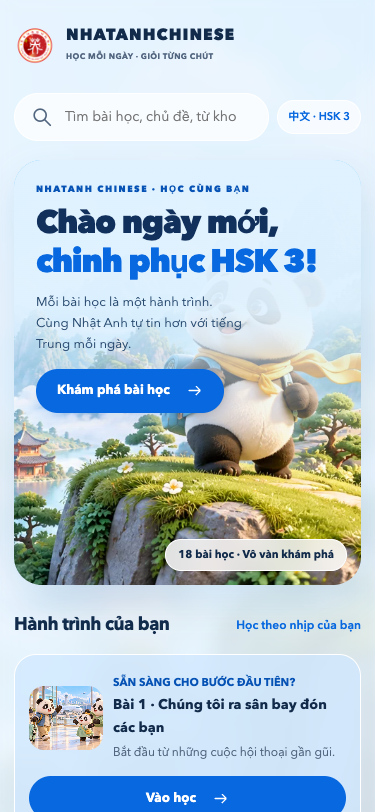
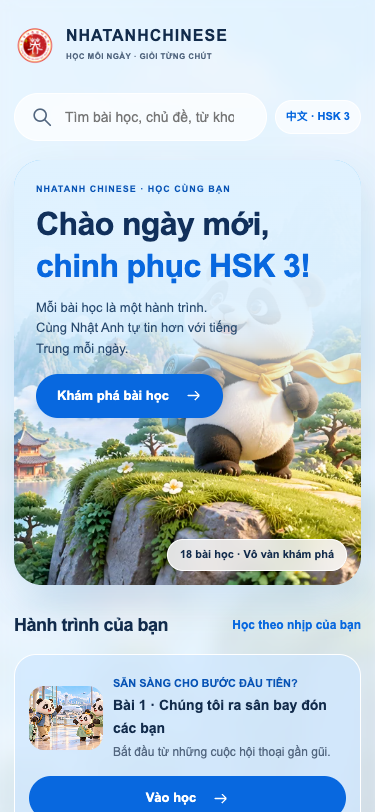
Add files via upload

diff --git a/assets/theme.css b/assets/theme.css
@@ -1,6 +1,6 @@
 
-:root{--primary:#0868df;--primary-dark:#0753b5;--ink:#122b4b;--muted:#52667f;--line:rgba(127,169,212,.25);--glass:rgba(255,255,255,.74);--shadow:0 12px 36px rgba(53,105,159,.08);--radius:24px;--lat:"Avenir Next","Segoe UI",Arial,sans-serif}
-*{box-sizing:border-box}html{scroll-behavior:smooth;scroll-padding-top:110px}body{margin:0;color:var(--ink);font-family:var(--lat);font-size:16px;line-height:1.6;background:#eaf4ff}body:before{content:"";position:fixed;inset:0;background:linear-gradient(115deg,rgba(237,247,255,.95),rgba(232,245,255,.87)),url('home.webp') center/cover;z-index:-1;pointer-events:none}a{color:inherit;text-decoration:none}button,input,select{font:inherit}button,a,input,select{touch-action:manipulation}button,a{ -webkit-tap-highlight-color:transparent}button{cursor:pointer}svg{width:22px;height:22px;flex:none}button:active,.primary:active{transform:scale(.98)}:focus-visible{outline:3px solid #0753b5;outline-offset:4px}button,a{transition:background .2s,box-shadow .2s,transform .2s}.skip{position:fixed;top:-100px;left:16px;z-index:100;background:white;padding:12px;border-radius:12px}.skip:focus{top:10px}.na-brand{display:flex;align-items:center;gap:10px;min-height:62px}.na-brand img{object-fit:contain;border-radius:50%;flex:none}.na-brand b{display:block;font-size:14px;font-weight:800;line-height:1.2;letter-spacing:1px}.na-brand small{font-size:7px;letter-spacing:.4px;display:block;margin-top:6px;color:var(--muted);font-weight:700}.glass{background:var(--glass);border:1px solid rgba(255,255,255,.9);box-shadow:var(--shadow);backdrop-filter:blur(22px);-webkit-backdrop-filter:blur(22px);border-radius:var(--radius)}.shell{display:grid;grid-template-columns:224px minmax(0,1fr);max-width:1680px;margin:auto;min-height:100dvh}.sidebar{position:sticky;top:0;height:100dvh;padding:26px 18px;display:flex;flex-direction:column;gap:30px;background:rgba(255,255,255,.58);backdrop-filter:blur(24px);border-right:1px solid white}.sidebar nav{display:grid;gap:8px}.nav-link{display:flex;align-items:center;gap:12px;padding:12px 14px;border-radius:14px;font-size:14px;font-weight:600;min-height:48px;color:var(--muted)}.nav-link:hover{background:#e5f0ff}.nav-link.active{color:var(--primary);background:#dcebff}.sidebar-bottom{margin-top:auto;padding:18px;background:linear-gradient(150deg,#d9edff,#f6fbff);border:1px solid white;border-radius:22px}.sidebar-bottom .mini-icon{background:white;color:var(--primary);width:42px;height:42px;display:grid;place-items:center;border-radius:14px}.sidebar-bottom b{display:block;margin-top:10px}.sidebar-bottom p{font-size:12px;color:var(--muted);margin:5px 0 12px}.sidebar-footer{font-size:11px;color:var(--muted);text-align:center}.workspace{padding:24px 30px 40px;min-width:0}.topbar{display:flex;align-items:center;gap:20px;margin-bottom:24px;min-height:50px}.searchbox{display:flex;align-items:center;gap:10px;max-width:440px;flex:1;padding:0 16px;background:rgba(255,255,255,.72);border:1px solid white;border-radius:50px;color:var(--muted)}.searchbox input{width:100%;min-width:0;border:0;background:none;outline:none;min-height:46px;color:var(--ink);font-size:14px}.searchbox:focus-within{box-shadow:0 0 0 3px #abcfff}.top-meta{margin-left:auto;display:flex;align-items:center;gap:14px;font-size:13px;font-weight:600;white-space:nowrap}.level-pill{padding:8px 14px;background:rgba(255,255,255,.65);border:1px solid white;border-radius:40px;color:var(--primary)}.avatar{width:42px;height:42px;background:#d2e8ff;color:var(--primary-dark);display:grid;place-items:center;border-radius:50%;border:3px solid white;font-weight:800}.dashboard{display:grid;grid-template-columns:minmax(0,1fr) 258px;gap:24px;align-items:start}.content{min-width:0}.home-hero{position:relative;border-radius:28px;overflow:hidden;min-height:340px;background:#cceaff;box-shadow:0 16px 35px rgba(30,105,180,.13);isolation:isolate}.home-hero>img{position:absolute;inset:0;width:100%;height:100%;object-fit:cover;z-index:-2}.home-hero:after{content:"";position:absolute;inset:0;background:linear-gradient(90deg,rgba(218,240,255,.97),rgba(222,242,255,.7) 38%,transparent 72%);z-index:-1}.hero-copy{padding:30px 32px;max-width:66%}.eyebrow{font-size:11px;font-weight:800;letter-spacing:1.5px;text-transform:uppercase;color:var(--primary-dark)}.hero-copy h1{font-size:36px;line-height:1.22;letter-spacing:-1.2px;margin:12px 0;color:#11305b;font-weight:800}.hero-copy h1 span{color:var(--primary)}.hero-copy p{max-width:260px;font-size:14px;color:#294b70;margin:14px 0 22px}.primary{display:inline-flex;align-items:center;justify-content:center;gap:16px;background:var(--primary);color:white;border:0;border-radius:40px;min-height:46px;padding:10px 21px;font-size:13px;font-weight:700;box-shadow:0 7px 16px #1870df30}.primary:hover{background:var(--primary-dark);box-shadow:0 10px 22px #1870df40}.primary svg{width:17px;height:17px}.hero-badge{position:absolute;right:18px;top:18px;background:rgba(255,255,255,.82);backdrop-filter:blur(12px);border:1px solid white;border-radius:40px;padding:6px 12px;font-size:11px;font-weight:700}.section-heading{display:flex;justify-content:space-between;align-items:center;gap:10px;margin:26px 0 14px}.section-heading h2{margin:0;font-size:19px;letter-spacing:-.5px}.section-heading a,.section-heading>span{font-size:12px;font-weight:600;color:var(--primary)}.continue{padding:14px;display:flex;align-items:center;gap:16px;background:rgba(206,231,255,.7);border:1px solid white;border-radius:22px}.continue img{width:94px;height:74px;border-radius:15px;object-fit:cover}.continue-info{flex:1;min-width:0}.continue-info small{font-size:11px;color:var(--primary-dark);font-weight:700}.continue-info b{display:block;font-size:14px}.continue-info p{font-size:12px;color:var(--muted);margin:4px 0}.continue .primary{box-shadow:none;min-width:105px}.skills-home{display:grid;grid-template-columns:repeat(4,1fr);gap:10px}.skill-tile{padding:14px 10px;display:flex;align-items:center;gap:9px;border:1px solid white;border-radius:18px;background:var(--tile);min-width:0}.skill-tile .tile-icon{width:36px;height:36px;display:grid;place-items:center;border-radius:12px;background:var(--tile-ink);color:#fff;flex:none;box-shadow:inset 0 -3px 0 #0000000b}.skill-tile svg{width:20px}.skill-tile b{font-size:12px;display:block}.skill-tile small{font-size:10px;color:#526078}.skill-tile:hover{transform:translateY(-3px);box-shadow:var(--shadow)}.filterbar{display:flex;gap:8px;margin:0 0 18px;flex-wrap:wrap}.filter{border:1px solid #d7e6f7;background:rgba(255,255,255,.7);color:var(--muted);border-radius:30px;padding:8px 15px;min-height:44px;font-size:12px;font-weight:700}.filter[aria-pressed=true]{background:var(--primary);border-color:var(--primary);color:white}.lesson-grid{display:grid;grid-template-columns:repeat(2,minmax(0,1fr));gap:18px}.lesson-card{display:block;overflow:hidden;position:relative;border-radius:24px;background:rgba(255,255,255,.82);border:1px solid white;box-shadow:0 5px 18px #24598508;transition:transform .25s,box-shadow .25s}.lesson-card:hover{transform:translateY(-5px);box-shadow:0 16px 32px #24598520}.lesson-cover{position:relative;height:174px;overflow:hidden;background:#d8edfc}.lesson-cover>img{width:100%;height:100%;object-fit:cover;transition:transform .3s}.lesson-card:hover .lesson-cover>img{transform:scale(1.035)}.lesson-number{position:absolute;top:12px;left:12px;border:1px solid white;background:rgba(255,255,255,.88);backdrop-filter:blur(12px);border-radius:30px;padding:3px 12px;font-size:11px;font-weight:800;color:var(--primary-dark)}.lesson-body{padding:18px}.lesson-body h3{font-family:"PingFang SC","Microsoft YaHei",sans-serif;font-size:18px;line-height:1.5;margin:0 0 5px;font-weight:600}.lesson-body p{font-size:12px;color:var(--muted);margin:0 0 14px;min-height:38px}.lesson-bottom{border-top:1px solid #e4edf7;padding-top:12px;display:flex;align-items:center;justify-content:space-between;font-size:11px;color:var(--muted)}.lesson-bottom strong{font-size:12px;color:var(--primary);display:flex;align-items:center;gap:6px}.lesson-bottom svg{width:16px}.right-rail{display:grid;gap:18px}.rail-card{padding:22px}.rail-card h2{font-size:14px;margin:0 0 18px}.progress-ring{--pct:0%;width:138px;height:138px;border-radius:50%;background:conic-gradient(var(--primary) var(--pct),#e2ecf9 0);margin:5px auto 16px;padding:10px}.progress-ring>div{height:100%;background:#f8fcff;border:4px solid white;border-radius:50%;display:flex;flex-direction:column;align-items:center;justify-content:center}.progress-ring b{font-size:28px;line-height:1.2;letter-spacing:-1px}.progress-ring small{font-size:11px;color:var(--muted)}.rail-card>p{color:var(--muted);font-size:12px;margin:0}.rail-note{text-align:center}.rail-stat{display:flex;align-items:center;gap:12px;padding:12px 0;border-top:1px solid #dfebf8;font-size:12px}.rail-stat span{display:grid;place-items:center;border-radius:12px;width:36px;height:36px;background:#e5efff;color:var(--primary)}.rail-stat b{margin-left:auto;font-size:17px}.study-tip{background:linear-gradient(145deg,#d3eaffbb,#e7f4ffbb)}.study-tip .tip-illustration{width:70px;height:70px;border-radius:20px;object-fit:cover;float:right;margin-top:12px}.study-tip h2{margin:9px 0;font-size:17px}.study-tip p{font-size:12px;color:#375778}.tiny-label{color:var(--primary-dark);font-size:10px;font-weight:800;letter-spacing:1px}.empty{padding:40px;text-align:center;grid-column:1/-1}.home-footer{text-align:center;margin:32px 0 0;color:var(--muted);font-size:11px}.mobile-brand{display:none}.score-list{display:grid;gap:10px}.score-row{display:flex;align-items:center;justify-content:space-between;border-radius:12px;background:#edf5ff;padding:10px;font-size:12px}.score-list>p{font-size:12px;color:var(--muted);margin:0}
+:root{--primary:#0868df;--primary-dark:#0753b5;--ink:#122b4b;--muted:#52667f;--line:rgba(127,169,212,.25);--glass:rgba(255,255,255,.74);--shadow:0 12px 36px rgba(53,105,159,.08);--radius:24px;--lat:Arial,"Helvetica Neue","Segoe UI",sans-serif}
+*{box-sizing:border-box}html{scroll-behavior:smooth;scroll-padding-top:110px}body{margin:0;color:var(--ink);font-family:var(--lat);font-size:16px;line-height:1.6;background:#eaf4ff}body:before{content:"";position:fixed;inset:0;background:linear-gradient(115deg,rgba(237,247,255,.95),rgba(232,245,255,.87)),url('home.webp') center/cover;z-index:-1;pointer-events:none}a{color:inherit;text-decoration:none}button,input,select{font:inherit}button,a,input,select{touch-action:manipulation}button,a{ -webkit-tap-highlight-color:transparent}button{cursor:pointer}svg{width:22px;height:22px;flex:none}button:active,.primary:active{transform:scale(.98)}:focus-visible{outline:3px solid #0753b5;outline-offset:4px}button,a{transition:background .2s,box-shadow .2s,transform .2s}.skip{position:fixed;top:-100px;left:16px;z-index:100;background:white;padding:12px;border-radius:12px}.skip:focus{top:10px}.na-brand{display:flex;align-items:center;gap:10px;min-height:62px}.na-brand img{object-fit:contain;border-radius:50%;flex:none}.na-brand b{display:block;font-size:14px;font-weight:700;line-height:1.2;letter-spacing:1px}.na-brand small{font-size:7px;letter-spacing:.4px;display:block;margin-top:6px;color:var(--muted);font-weight:700}.glass{background:var(--glass);border:1px solid rgba(255,255,255,.9);box-shadow:var(--shadow);backdrop-filter:blur(22px);-webkit-backdrop-filter:blur(22px);border-radius:var(--radius)}.shell{display:grid;grid-template-columns:224px minmax(0,1fr);max-width:1680px;margin:auto;min-height:100dvh}.sidebar{position:sticky;top:0;height:100dvh;padding:26px 18px;display:flex;flex-direction:column;gap:30px;background:rgba(255,255,255,.58);backdrop-filter:blur(24px);border-right:1px solid white}.sidebar nav{display:grid;gap:8px}.nav-link{display:flex;align-items:center;gap:12px;padding:12px 14px;border-radius:14px;font-size:14px;font-weight:600;min-height:48px;color:var(--muted)}.nav-link:hover{background:#e5f0ff}.nav-link.active{color:var(--primary);background:#dcebff}.sidebar-bottom{margin-top:auto;padding:18px;background:linear-gradient(150deg,#d9edff,#f6fbff);border:1px solid white;border-radius:22px}.sidebar-bottom .mini-icon{background:white;color:var(--primary);width:42px;height:42px;display:grid;place-items:center;border-radius:14px}.sidebar-bottom b{display:block;margin-top:10px}.sidebar-bottom p{font-size:12px;color:var(--muted);margin:5px 0 12px}.sidebar-footer{font-size:11px;color:var(--muted);text-align:center}.workspace{padding:24px 30px 40px;min-width:0}.topbar{display:flex;align-items:center;gap:20px;margin-bottom:24px;min-height:50px}.searchbox{display:flex;align-items:center;gap:10px;max-width:440px;flex:1;padding:0 16px;background:rgba(255,255,255,.72);border:1px solid white;border-radius:50px;color:var(--muted)}.searchbox input{width:100%;min-width:0;border:0;background:none;outline:none;min-height:46px;color:var(--ink);font-size:14px}.searchbox:focus-within{box-shadow:0 0 0 3px #abcfff}.top-meta{margin-left:auto;display:flex;align-items:center;gap:14px;font-size:13px;font-weight:600;white-space:nowrap}.level-pill{padding:8px 14px;background:rgba(255,255,255,.65);border:1px solid white;border-radius:40px;color:var(--primary)}.avatar{width:42px;height:42px;background:#d2e8ff;color:var(--primary-dark);display:grid;place-items:center;border-radius:50%;border:3px solid white;font-weight:700}.dashboard{display:grid;grid-template-columns:minmax(0,1fr) 258px;gap:24px;align-items:start}.content{min-width:0}.home-hero{position:relative;border-radius:28px;overflow:hidden;min-height:340px;background:#cceaff;box-shadow:0 16px 35px rgba(30,105,180,.13);isolation:isolate}.home-hero>img{position:absolute;inset:0;width:100%;height:100%;object-fit:cover;z-index:-2}.home-hero:after{content:"";position:absolute;inset:0;background:linear-gradient(90deg,rgba(218,240,255,.97),rgba(222,242,255,.7) 38%,transparent 72%);z-index:-1}.hero-copy{padding:30px 32px;max-width:66%}.eyebrow{font-size:11px;font-weight:600;letter-spacing:1px;text-transform:uppercase;color:var(--primary-dark)}.hero-copy h1{font-size:36px;line-height:1.3;letter-spacing:-.6px;margin:12px 0;color:#11305b;font-weight:700}.hero-copy h1 span{color:var(--primary)}.hero-copy p{max-width:260px;font-size:14px;color:#294b70;margin:14px 0 22px}.primary{display:inline-flex;align-items:center;justify-content:center;gap:16px;background:var(--primary);color:white;border:0;border-radius:40px;min-height:46px;padding:10px 21px;font-size:13px;font-weight:700;box-shadow:0 7px 16px #1870df30}.primary:hover{background:var(--primary-dark);box-shadow:0 10px 22px #1870df40}.primary svg{width:17px;height:17px}.hero-badge{position:absolute;right:18px;top:18px;background:rgba(255,255,255,.82);backdrop-filter:blur(12px);border:1px solid white;border-radius:40px;padding:6px 12px;font-size:11px;font-weight:700}.section-heading{display:flex;justify-content:space-between;align-items:center;gap:10px;margin:26px 0 14px}.section-heading h2{margin:0;font-size:19px;letter-spacing:-.5px}.section-heading a,.section-heading>span{font-size:12px;font-weight:600;color:var(--primary)}.continue{padding:14px;display:flex;align-items:center;gap:16px;background:rgba(206,231,255,.7);border:1px solid white;border-radius:22px}.continue img{width:94px;height:74px;border-radius:15px;object-fit:cover}.continue-info{flex:1;min-width:0}.continue-info small{font-size:11px;color:var(--primary-dark);font-weight:700}.continue-info b{display:block;font-size:14px}.continue-info p{font-size:12px;color:var(--muted);margin:4px 0}.continue .primary{box-shadow:none;min-width:105px}.skills-home{display:grid;grid-template-columns:repeat(4,1fr);gap:10px}.skill-tile{padding:14px 10px;display:flex;align-items:center;gap:9px;border:1px solid white;border-radius:18px;background:var(--tile);min-width:0}.skill-tile .tile-icon{width:36px;height:36px;display:grid;place-items:center;border-radius:12px;background:var(--tile-ink);color:#fff;flex:none;box-shadow:inset 0 -3px 0 #0000000b}.skill-tile svg{width:20px}.skill-tile b{font-size:12px;display:block}.skill-tile small{font-size:10px;color:#526078}.skill-tile:hover{transform:translateY(-3px);box-shadow:var(--shadow)}.filterbar{display:flex;gap:8px;margin:0 0 18px;flex-wrap:wrap}.filter{border:1px solid #d7e6f7;background:rgba(255,255,255,.7);color:var(--muted);border-radius:30px;padding:8px 15px;min-height:44px;font-size:12px;font-weight:700}.filter[aria-pressed=true]{background:var(--primary);border-color:var(--primary);color:white}.lesson-grid{display:grid;grid-template-columns:repeat(2,minmax(0,1fr));gap:18px}.lesson-card{display:block;overflow:hidden;position:relative;border-radius:24px;background:rgba(255,255,255,.82);border:1px solid white;box-shadow:0 5px 18px #24598508;transition:transform .25s,box-shadow .25s}.lesson-card:hover{transform:translateY(-5px);box-shadow:0 16px 32px #24598520}.lesson-cover{position:relative;height:174px;overflow:hidden;background:#d8edfc}.lesson-cover>img{width:100%;height:100%;object-fit:cover;transition:transform .3s}.lesson-card:hover .lesson-cover>img{transform:scale(1.035)}.lesson-number{position:absolute;top:12px;left:12px;border:1px solid white;background:rgba(255,255,255,.88);backdrop-filter:blur(12px);border-radius:30px;padding:3px 12px;font-size:11px;font-weight:700;color:var(--primary-dark)}.lesson-body{padding:18px}.lesson-body h3{font-family:"PingFang SC","Microsoft YaHei",sans-serif;font-size:18px;line-height:1.5;margin:0 0 5px;font-weight:600}.lesson-body p{font-size:12px;color:var(--muted);margin:0 0 14px;min-height:38px}.lesson-bottom{border-top:1px solid #e4edf7;padding-top:12px;display:flex;align-items:center;justify-content:space-between;font-size:11px;color:var(--muted)}.lesson-bottom strong{font-size:12px;color:var(--primary);display:flex;align-items:center;gap:6px}.lesson-bottom svg{width:16px}.right-rail{display:grid;gap:18px}.rail-card{padding:22px}.rail-card h2{font-size:14px;margin:0 0 18px}.progress-ring{--pct:0%;width:138px;height:138px;border-radius:50%;background:conic-gradient(var(--primary) var(--pct),#e2ecf9 0);margin:5px auto 16px;padding:10px}.progress-ring>div{height:100%;background:#f8fcff;border:4px solid white;border-radius:50%;display:flex;flex-direction:column;align-items:center;justify-content:center}.progress-ring b{font-size:28px;line-height:1.2;letter-spacing:-1px}.progress-ring small{font-size:11px;color:var(--muted)}.rail-card>p{color:var(--muted);font-size:12px;margin:0}.rail-note{text-align:center}.rail-stat{display:flex;align-items:center;gap:12px;padding:12px 0;border-top:1px solid #dfebf8;font-size:12px}.rail-stat span{display:grid;place-items:center;border-radius:12px;width:36px;height:36px;background:#e5efff;color:var(--primary)}.rail-stat b{margin-left:auto;font-size:17px}.study-tip{background:linear-gradient(145deg,#d3eaffbb,#e7f4ffbb)}.study-tip .tip-illustration{width:70px;height:70px;border-radius:20px;object-fit:cover;float:right;margin-top:12px}.study-tip h2{margin:9px 0;font-size:17px}.study-tip p{font-size:12px;color:#375778}.tiny-label{color:var(--primary-dark);font-size:10px;font-weight:700;letter-spacing:1px}.empty{padding:40px;text-align:center;grid-column:1/-1}.home-footer{text-align:center;margin:32px 0 0;color:var(--muted);font-size:11px}.mobile-brand{display:none}.score-list{display:grid;gap:10px}.score-row{display:flex;align-items:center;justify-content:space-between;border-radius:12px;background:#edf5ff;padding:10px;font-size:12px}.score-list>p{font-size:12px;color:var(--muted);margin:0}
 @media(min-width:1550px){.lesson-grid{grid-template-columns:repeat(3,minmax(0,1fr))}.home-hero{min-height:380px}.hero-copy h1{font-size:43px}}
 @media(max-width:1250px){.shell{grid-template-columns:195px minmax(0,1fr)}.workspace{padding:22px}.dashboard{grid-template-columns:minmax(0,1fr)}.right-rail{grid-template-columns:repeat(3,minmax(0,1fr))}.hero-copy{max-width:58%}.rail-card{padding:18px}.progress-ring{width:110px;height:110px}.skills-home{gap:12px}.na-brand b{font-size:12px}.na-brand img{width:42px;height:42px}.na-brand small{font-size:6px}}
 @media(max-width:800px){.shell{display:block}.sidebar{display:none}.workspace{padding:16px}.mobile-brand{display:block;margin-bottom:16px}.mobile-brand .na-brand b br{display:none}.mobile-brand .na-brand b{font-size:16px}.mobile-brand .na-brand small{font-size:8px}.topbar{gap:8px;margin-bottom:18px}.top-meta .welcome{display:none}.hero-copy h1{font-size:33px}.hero-copy{max-width:70%;padding:26px}.right-rail{grid-template-columns:repeat(2,minmax(0,1fr))}.study-tip{display:none}.home-hero{min-height:320px}.lesson-cover{height:190px}}

diff --git a/assets/lesson.css b/assets/lesson.css
@@ -1,5 +1,5 @@
 
-:root{--vermilion:#0868df;--vermilion-d:#0753b5;--lat:"Avenir Next","Segoe UI",Arial,sans-serif;--ink:#122b4b;--ink-2:#52667f;--line:#d5e5f5}.app3{max-width:1720px;grid-template-columns:236px minmax(0,1fr)}.sb{background:rgba(255,255,255,.64);border-right:1px solid white;backdrop-filter:blur(24px);padding:22px 16px;gap:20px}.sb .na-brand{margin-bottom:6px}.na-home{display:flex;align-items:center;gap:10px;padding:10px 14px;border-radius:14px;color:#0753b5;background:#e1efff;font-size:14px;font-weight:700;min-height:44px}.mn{padding:24px 28px 70px}.tb{border:1px solid #fff;background:rgba(255,255,255,.75);backdrop-filter:blur(22px);box-shadow:0 10px 30px #285d9610;padding:8px 12px}.cols{gap:22px;margin-top:22px;grid-template-columns:minmax(0,1fr) 260px}.nv{font-size:14px;font-weight:600;padding:7px 9px;min-height:46px}.nv .ic{font-size:20px}.plus,.rc,.guide,.user{border:1px solid white;box-shadow:0 8px 30px #285d9610;background:rgba(255,255,255,.78);backdrop-filter:blur(16px)}.plus{padding:18px;border-radius:22px}.rc{padding:20px;border-radius:24px}.tip{background:linear-gradient(150deg,#d7eaffc9,#edf8ffc9)}.sb .user{border-radius:18px}.bn{min-height:310px;background:#d9efff;box-shadow:0 12px 30px #285d9618;border:1px solid white;border-radius:28px}.bn .bn-art{display:none}.bn:before{content:"";position:absolute;inset:0;background-image:var(--lesson-image);background-size:cover;background-position:center;z-index:-2}.bn:after{content:"";position:absolute;inset:0;background:linear-gradient(90deg,rgba(228,244,255,.98),rgba(228,244,255,.94) 35%,rgba(228,244,255,0) 80%);z-index:-1}.bn-tx{max-width:70%;padding:26px}.bn h1{font-size:1.9rem;line-height:2.1;overflow-wrap:anywhere}.bn p{font-size:1rem;max-width:90%;line-height:1.5}.bn .tag{font-size:.68rem;letter-spacing:.5px;padding:4px 12px}.bn .go,.sbtn,.cont .st{font-size:14px;box-shadow:0 6px 15px #0868df24}.cont{background:rgba(211,232,255,.78);border:1px solid white}.cont .th{background-image:var(--lesson-image);background-size:cover;background-position:center;font-size:0}.h3 h3{font-size:1.1rem}.sk{border:1px solid white;min-height:84px;border-radius:20px;gap:8px}.sk b{font-size:.84rem;line-height:1.4}.sk small{font-size:.68rem}.sk .ic{width:36px;height:36px;font-size:1.2rem}.sk:hover{transform:translateY(-3px);box-shadow:0 8px 20px #285d9618}.skills{gap:10px}.card,.qcard{box-shadow:0 4px 18px #285d960a}.sec{scroll-margin-top:105px}.srch select{font-size:14px;min-height:44px}.seg button{min-height:44px;font-size:13px}.tb .mk{background:none;box-shadow:none}.tb .mk img{width:40px;height:40px;object-fit:contain;border-radius:50%}.mobile-home{font-size:12px;color:#0753b5;min-height:44px;display:flex;align-items:center;white-space:nowrap;font-weight:700}.guide{font-size:14px;line-height:1.7}.rt h4{font-size:14px}.rg p{font-size:13px}.rg small{font-size:11px}.ring{width:90px;height:90px}.ring svg{width:90px;height:90px}.ringw{gap:10px}.ring .mid b{font-size:1.1rem}.rr{font-size:13px}.ring .mid small{font-size:10px}.brand{display:none}.h3{margin-top:24px}.sec-h{padding-bottom:12px;border-bottom:1px solid #c5dcf5}.sec-h .seal{border-radius:16px;box-shadow:0 5px 14px #0868df20;background:#0868df}.sec-h h2{font-size:1.45rem}.sec-h h2 small{font-size:.8rem}.cont .ci b{font-size:14px}.cont .ci small{font-size:12px}.submit .btn{min-height:48px}button:hover{filter:brightness(.98)}.sk,.opt,.card{transition:background .2s,box-shadow .2s,transform .2s}
+:root{--vermilion:#0868df;--vermilion-d:#0753b5;--lat:Arial,"Helvetica Neue","Segoe UI",sans-serif;--ink:#122b4b;--ink-2:#52667f;--line:#d5e5f5}.app3{max-width:1720px;grid-template-columns:236px minmax(0,1fr)}.sb{background:rgba(255,255,255,.64);border-right:1px solid white;backdrop-filter:blur(24px);padding:22px 16px;gap:20px}.sb .na-brand{margin-bottom:6px}.na-home{display:flex;align-items:center;gap:10px;padding:10px 14px;border-radius:14px;color:#0753b5;background:#e1efff;font-size:14px;font-weight:700;min-height:44px}.mn{padding:24px 28px 70px}.tb{border:1px solid #fff;background:rgba(255,255,255,.75);backdrop-filter:blur(22px);box-shadow:0 10px 30px #285d9610;padding:8px 12px}.cols{gap:22px;margin-top:22px;grid-template-columns:minmax(0,1fr) 260px}.nv{font-size:14px;font-weight:600;padding:7px 9px;min-height:46px}.nv .ic{font-size:20px}.plus,.rc,.guide,.user{border:1px solid white;box-shadow:0 8px 30px #285d9610;background:rgba(255,255,255,.78);backdrop-filter:blur(16px)}.plus{padding:18px;border-radius:22px}.rc{padding:20px;border-radius:24px}.tip{background:linear-gradient(150deg,#d7eaffc9,#edf8ffc9)}.sb .user{border-radius:18px}.bn{min-height:310px;background:#d9efff;box-shadow:0 12px 30px #285d9618;border:1px solid white;border-radius:28px}.bn .bn-art{display:none}.bn:before{content:"";position:absolute;inset:0;background-image:var(--lesson-image);background-size:cover;background-position:center;z-index:-2}.bn:after{content:"";position:absolute;inset:0;background:linear-gradient(90deg,rgba(228,244,255,.98),rgba(228,244,255,.94) 35%,rgba(228,244,255,0) 80%);z-index:-1}.bn-tx{max-width:70%;padding:26px}.bn h1{font-size:1.9rem;line-height:2.1;overflow-wrap:anywhere}.bn p{font-size:1rem;max-width:90%;line-height:1.5}.bn .tag{font-size:.68rem;letter-spacing:.5px;padding:4px 12px}.bn .go,.sbtn,.cont .st{font-size:14px;box-shadow:0 6px 15px #0868df24}.cont{background:rgba(211,232,255,.78);border:1px solid white}.cont .th{background-image:var(--lesson-image);background-size:cover;background-position:center;font-size:0}.h3 h3{font-size:1.1rem}.sk{border:1px solid white;min-height:84px;border-radius:20px;gap:8px}.sk b{font-size:.84rem;line-height:1.4}.sk small{font-size:.68rem}.sk .ic{width:36px;height:36px;font-size:1.2rem}.sk:hover{transform:translateY(-3px);box-shadow:0 8px 20px #285d9618}.skills{gap:10px}.card,.qcard{box-shadow:0 4px 18px #285d960a}.sec{scroll-margin-top:105px}.srch select{font-size:14px;min-height:44px}.seg button{min-height:44px;font-size:13px}.tb .mk{background:none;box-shadow:none}.tb .mk img{width:40px;height:40px;object-fit:contain;border-radius:50%}.mobile-home{font-size:12px;color:#0753b5;min-height:44px;display:flex;align-items:center;white-space:nowrap;font-weight:700}.guide{font-size:14px;line-height:1.7}.rt h4{font-size:14px}.rg p{font-size:13px}.rg small{font-size:11px}.ring{width:90px;height:90px}.ring svg{width:90px;height:90px}.ringw{gap:10px}.ring .mid b{font-size:1.1rem}.rr{font-size:13px}.ring .mid small{font-size:10px}.brand{display:none}.h3{margin-top:24px}.sec-h{padding-bottom:12px;border-bottom:1px solid #c5dcf5}.sec-h .seal{border-radius:16px;box-shadow:0 5px 14px #0868df20;background:#0868df}.sec-h h2{font-size:1.45rem}.sec-h h2 small{font-size:.8rem}.cont .ci b{font-size:14px}.cont .ci small{font-size:12px}.submit .btn{min-height:48px}button:hover{filter:brightness(.98)}.sk,.opt,.card{transition:background .2s,box-shadow .2s,transform .2s}
 @media(max-width:1400px){.cols{grid-template-columns:minmax(0,1fr)}.rt{display:none}}
 @media(max-width:1050px){.app3{grid-template-columns:minmax(0,1fr)}.sb{display:none}.mn{padding:16px}.tb .mk{display:flex}.tabs{display:flex;order:3;flex:1 1 100%;overflow-x:auto;gap:8px;padding:3px}.tb{flex-wrap:wrap;border-radius:24px}.skills{grid-template-columns:repeat(2,minmax(0,1fr))}.tab{min-height:44px}.srch{flex:1 1 170px}.ctl{margin-left:auto}.bn-tx{max-width:65%}}
 @media(max-width:640px){.mn{padding:10px}.tb{gap:8px}.ctl{width:100%;justify-content:space-between}.srch{max-width:none}.mobile-home{margin-left:auto}.cols{margin-top:14px}.bn{min-height:440px}.bn:before{background-position:center bottom;background-size:auto 100%}.bn:after{background:linear-gradient(180deg,#e4f4ff 0%,#e4f4fff5 44%,#e4f4ff00 80%)}.bn-tx{max-width:100%;padding:20px}.bn h1{font-size:1.6rem;line-height:2.1}.bn p{font-size:.9rem;max-width:100%;margin-bottom:12px}.bn .chip2{display:none}.cont .ci b{font-size:13px}.sk{padding:10px}.sk b{font-size:.86rem}.skills{gap:8px}.tab{font-size:13px}.guide{font-size:13px}.sec{scroll-margin-top:180px}.tb .mk{display:none}}
